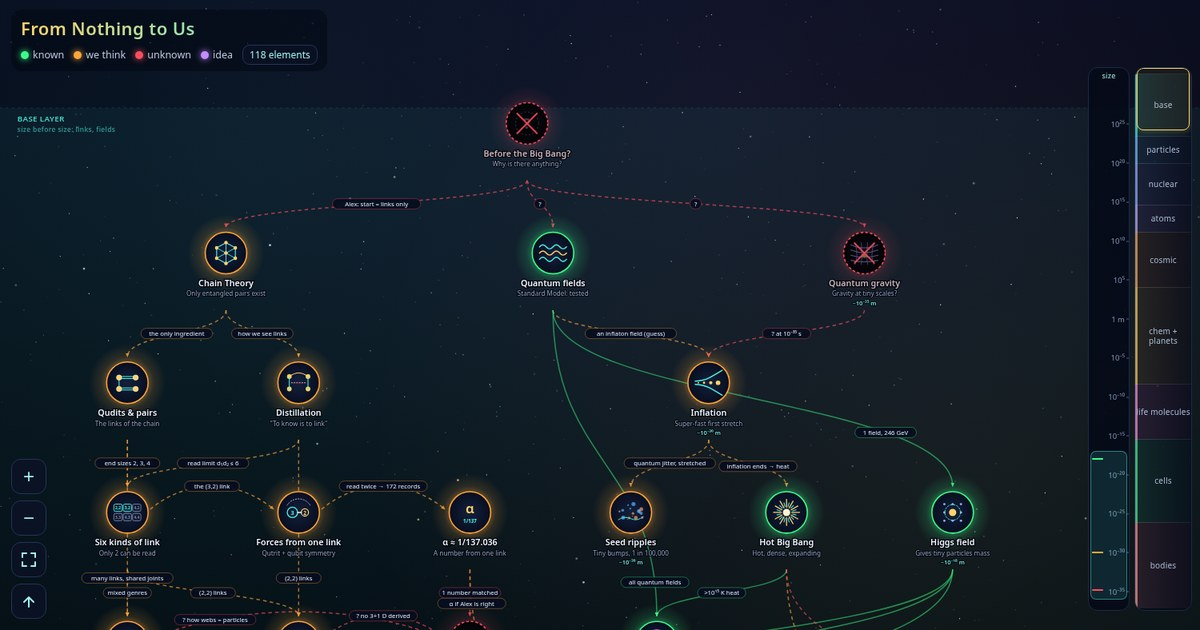
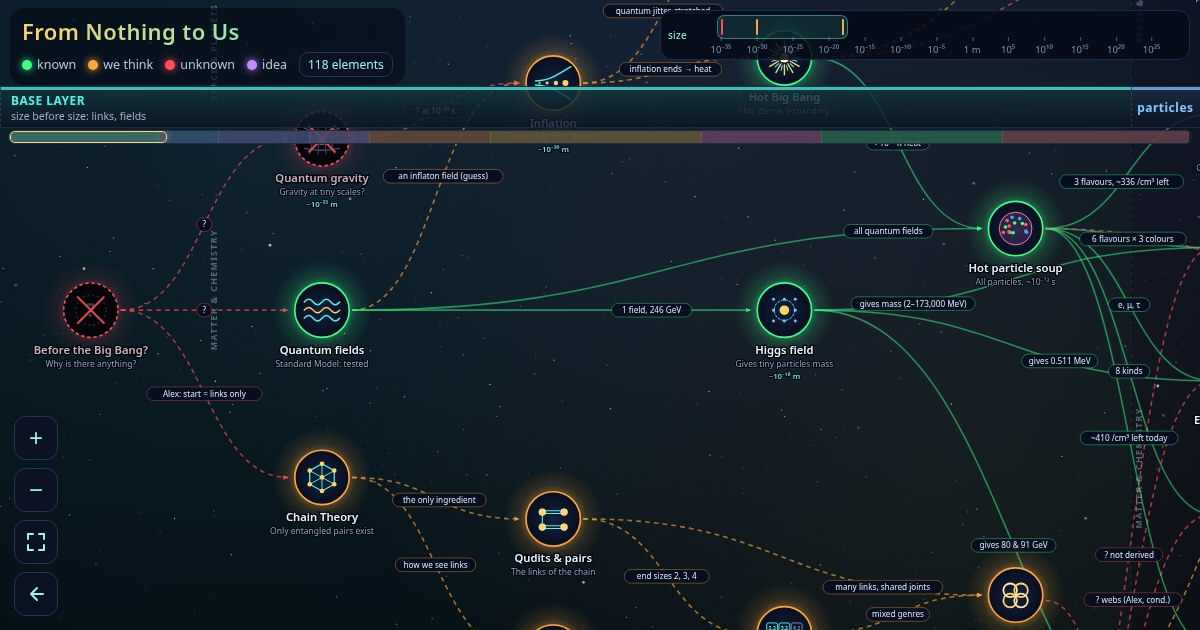
Publish v3 left-to-right layout.
Wheel zoom and drag-to-move replace the previous tree view, with an updated link preview.

diff --git a/index.html b/index.html
@@ -20,7 +20,7 @@ html,body{margin:0;height:100%;overflow:hidden;background:#04060f;color:#e8f4ff;
 #sky{position:fixed;inset:0;z-index:0}
 #tree{position:fixed;inset:0;z-index:1;width:100%;height:100%;cursor:grab;display:block}
 #tree.drag{cursor:grabbing}
-header{position:fixed;top:12px;left:14px;z-index:3;padding:8px 12px;border-radius:14px;background:rgba(4,8,20,.6);pointer-events:none}
+header{position:fixed;top:8px;left:10px;z-index:3;padding:8px 12px;border-radius:14px;background:rgba(4,8,20,.6);pointer-events:none}
 header *{pointer-events:auto}
 h1{margin:0;font-size:22px;font-weight:650;letter-spacing:.4px;background:linear-gradient(90deg,#ffd36b,#4ff3e3);-webkit-background-clip:text;background-clip:text;color:transparent}
 .legend{margin-top:6px;display:flex;gap:12px;flex-wrap:wrap;font-size:12.5px;color:#b9c8dc;align-items:center}
@@ -31,15 +31,20 @@ h1{margin:0;font-size:22px;font-weight:650;letter-spacing:.4px;background:linear
 .zoom{position:fixed;left:14px;bottom:14px;z-index:3;display:flex;flex-direction:column;gap:8px}
 .zoom button{width:44px;height:44px;border-radius:12px;border:1px solid #23355a;background:rgba(10,18,36,.85);color:#9ff5ea;font-size:24px;line-height:1;cursor:pointer;display:flex;align-items:center;justify-content:center;padding:0}
 .zoom button:hover{border-color:#4ff3e3}
-#strip{position:fixed;right:10px;top:84px;bottom:24px;width:70px;z-index:3;cursor:pointer;border-radius:12px;overflow:hidden;background:rgba(6,10,24,.88);border:1px solid #1b2a48}
-.seg{position:absolute;left:0;right:0;display:flex;align-items:center;justify-content:center;text-align:center;font-size:10px;line-height:1.15;letter-spacing:.2px;color:#a9b9d2;border-top:1px solid rgba(255,255,255,.05)}
-#vp{position:absolute;left:2px;right:2px;border:1.5px solid #ffd36b;border-radius:8px;background:rgba(255,211,107,.08);box-shadow:0 0 10px rgba(255,211,107,.35);pointer-events:none}
-#ruler{position:fixed;right:88px;top:84px;bottom:24px;width:50px;z-index:3;border-radius:12px;background:rgba(6,10,24,.88);border:1px solid #1b2a48;pointer-events:none;overflow:hidden}
-#ruler .rt{position:absolute;left:0;right:0;font-size:9.5px;color:#7f93b3;text-align:right;padding-right:5px;transform:translateY(-50%);white-space:nowrap}
-#ruler .rt:after{content:'';position:absolute;right:0;top:50%;width:3px;border-top:1px solid #4a5f85}
-#ruler .rk{position:absolute;left:4px;width:14px;height:2px;border-radius:1px;transform:translateY(-50%);transition:top .25s}
-#ruler .rh{position:absolute;left:2px;right:2px;border-radius:7px;background:rgba(79,243,227,.12);border:1px solid rgba(79,243,227,.45);transition:top .25s,height .25s}
-#ruler .rtitle{position:absolute;top:3px;left:0;right:0;text-align:center;font-size:9px;color:#9ff5ea;letter-spacing:.3px}
+#strip{position:fixed;left:0;right:0;top:86px;height:40px;z-index:3;pointer-events:none;background:rgba(6,10,24,.82);border-top:1px solid #1b2a48;border-bottom:1px solid #1b2a48}
+.seg{position:absolute;top:0;bottom:0;display:flex;flex-direction:column;justify-content:center;padding:0 10px;box-sizing:border-box;overflow:hidden;white-space:nowrap;cursor:pointer;pointer-events:auto;border-left:1px dashed rgba(255,255,255,.12)}
+.seg b{font-size:12px;letter-spacing:.5px;font-weight:700;overflow:hidden;text-overflow:ellipsis}
+.seg span{font-size:10.5px;color:#9fb0c8;overflow:hidden;text-overflow:ellipsis}
+.seg.narrow{padding:0 5px}.seg.narrow span{display:none}
+#mini{position:fixed;left:8px;right:8px;top:130px;height:12px;z-index:3;cursor:pointer;border-radius:6px;overflow:hidden;background:rgba(6,10,24,.88);border:1px solid #1b2a48}
+.mseg{position:absolute;top:0;bottom:0;font-size:0;border-right:1px solid rgba(0,0,0,.4)}
+#vp{position:absolute;top:0;bottom:0;border:1.5px solid #ffd36b;border-radius:5px;background:rgba(255,211,107,.12);box-shadow:0 0 8px rgba(255,211,107,.4);pointer-events:none;box-sizing:border-box}
+#ruler{position:fixed;right:10px;top:10px;height:48px;width:min(560px,44vw);z-index:3;border-radius:12px;background:rgba(6,10,24,.88);border:1px solid #1b2a48;pointer-events:none;overflow:hidden}
+#ruler .rt{position:absolute;bottom:3px;font-size:9.5px;color:#7f93b3;transform:translateX(-50%);white-space:nowrap}
+#ruler .rt:after{content:'';position:absolute;left:50%;top:-6px;height:4px;border-left:1px solid #4a5f85}
+#ruler .rk{position:absolute;top:8px;height:16px;width:2px;border-radius:1px;transform:translateX(-50%);transition:left .25s}
+#ruler .rh{position:absolute;top:4px;height:24px;border-radius:7px;background:rgba(79,243,227,.12);border:1px solid rgba(79,243,227,.45);transition:left .25s,width .25s;box-sizing:border-box}
+#ruler .rtitle{position:absolute;top:0;bottom:0;left:7px;display:flex;align-items:center;font-size:10px;color:#9ff5ea;letter-spacing:.3px}
 #pop{position:fixed;z-index:5;width:300px;max-height:72vh;overflow-y:auto;overscroll-behavior:contain;touch-action:pan-y;padding:12px 30px 12px 14px;border-radius:14px;background:rgba(8,14,30,.96);border:1.5px solid #4ff3e3;display:none;font-size:14px;line-height:1.45;color:#d6e4f5;-webkit-user-select:text;user-select:text;box-sizing:border-box}
 #pop b.t1{display:block;font-size:15.5px;color:#fff;margin-bottom:2px}
 #pop .chip{font-size:11.5px;color:#9fb0c8;margin-bottom:4px}
@@ -67,6 +72,7 @@ svg.focus .elab.lit rect{stroke-opacity:1}
 svg.far .elab,svg.far .sz{display:none}
 svg.moving .ic{filter:none}
 .band text{font-size:15px;font-weight:650;letter-spacing:.6px}
+.band text.lane{font-size:13px;font-weight:700;letter-spacing:2px;fill:#8fa3bf;opacity:.55}
 #pt{position:fixed;inset:0;z-index:8;background:rgba(2,4,12,.94);display:none;overflow:auto;touch-action:pan-x pan-y;-webkit-user-select:text;user-select:text}
 #pt .in{max-width:1180px;margin:0 auto;padding:16px 14px 40px}
 #pt h2{margin:0 0 4px;font-size:20px;background:linear-gradient(90deg,#ffd36b,#4ff3e3);-webkit-background-clip:text;background-clip:text;color:transparent;display:inline-block}
@@ -89,7 +95,7 @@ svg.moving .ic{filter:none}
 #ptmode{margin-left:8px}
 #pt .note{font-size:11.5px;color:#8a9bb6;margin-top:12px;line-height:1.5}
 #pt .note a{color:#4ff3e3}
-@media (max-width:600px){header{padding:6px 9px;top:8px;left:8px}h1{font-size:16px}.legend{font-size:11px;gap:7px}#strip{width:22px;right:6px}.seg{font-size:0}#ruler{right:32px;width:40px}#ruler .rt{font-size:8px}
+@media (max-width:600px){header{padding:6px 9px;top:8px;left:8px}h1{font-size:16px}.legend{font-size:11px;gap:7px}#ruler{left:8px;right:8px;width:auto;top:80px;height:36px}#ruler .rt{font-size:8px}#ruler .rk{top:5px;height:12px}#ruler .rh{top:2px;height:18px}#ruler .rtitle{display:none}#strip{top:120px;height:32px}.seg b{font-size:10.5px}.seg span{display:none}#mini{top:154px;height:10px}
  #pop{left:6px!important;right:6px;width:auto!important;top:auto!important;bottom:6px;max-height:58vh}}
 </style>
 </head>
@@ -104,10 +110,11 @@ svg.moving .ic{filter:none}
   <button id="zin" title="Zoom in">+</button>
   <button id="zout" title="Zoom out">−</button>
   <button id="zfit" title="See everything"><svg width="22" height="22" viewBox="0 0 22 22" fill="none" stroke="#9ff5ea" stroke-width="2" stroke-linecap="round"><path d="M3 8V3h5M14 3h5v5M19 14v5h-5M8 19H3v-5"/></svg></button>
-  <button id="ztop" title="Back to the top"><svg width="22" height="22" viewBox="0 0 22 22" fill="none" stroke="#9ff5ea" stroke-width="2" stroke-linecap="round" stroke-linejoin="round"><path d="M5 12l6-6 6 6M11 6v12"/></svg></button>
+  <button id="ztop" title="Back to the start"><svg width="22" height="22" viewBox="0 0 22 22" fill="none" stroke="#9ff5ea" stroke-width="2" stroke-linecap="round" stroke-linejoin="round"><path d="M12 5l-6 6 6 6M6 11h12"/></svg></button>
 </div>
 <div id="ruler"><div class="rtitle">size</div></div>
-<div id="strip"><div id="vp"></div></div>
+<div id="strip"></div>
+<div id="mini"><div id="vp"></div></div>
 <div id="pop"><button class="x" aria-label="close">×</button><div id="popBody"></div></div>
 <div id="pt"><button class="close" aria-label="close">×</button><div class="in">
   <h2>All 118 elements: where they come from</h2>
@@ -733,10 +740,34 @@ const ELS=[[1,"H","Hydrogen","nm","B",1,1],[2,"He","Helium","nob","B",1,18],[3,"
 for (const n of N) { const x = EXTRA[n.id]; if (x) { if (x.L2 && x.L2.length) n.L2 = x.L2; if (x.L3 && x.L3.length) n.L3 = x.L3; } n.L2 = n.L2 || []; n.L3 = n.L3 || []; }
 
 /* ============ LAYOUT ============ */
-const ROW = 250, TOP = 130, W = 2050, LASTR = Math.max(...N.map(n => n.r)), H = TOP + LASTR * ROW + 190;
-const Y = r => TOP + r * ROW;
-const byId = {}; N.forEach(n => { n.y = Y(n.r); n.kids = []; byId[n.id] = n; });
+/* Left → right: one column per stage (n.r), grouped into size levels (BANDS).
+   Rows = branches: space & planets on top, matter & chemistry in the middle, Chain Theory and life below. */
+const COL = 340, LEFT = 150, GAP = 196, LANEGAP = 50, LASTR = Math.max(...N.map(n => n.r));
+const X = r => LEFT + r * COL;
+const LANES = { cosmic: ['SPACE & PLANETS', -720, 0], matter: ['MATTER & CHEMISTRY', 0, 1], chain: ['CHAIN THEORY (base idea)', 700, 2], life: ['LIFE', 640, 2] };
+const LANE_OF = {};
+'qgrav inflation seeds bigbang dm de gravity halos cmb gas firststars stars galaxies smbh supernova sn1a nsmerger bh cosmicray dust planets solar earth exo moon'.split(' ').forEach(i => LANE_OF[i] = 'cosmic');
+'axiom qudits distill genres gauge alpha chainmail ctspace gap'.split(' ').forEach(i => LANE_OF[i] = 'chain');
+'amino nucleotides sugars lipids peptides rnaworld vesicles protocell origin luca proteins code dna prok photosyn goe eukaryote multicell tissues plants animals organs mammals organsys hsap body brain idea mind'.split(' ').forEach(i => LANE_OF[i] = 'life');
+const byId = {}; N.forEach(n => { n.x = X(n.r); n.kids = []; n.lane = LANE_OF[n.id] || 'matter'; byId[n.id] = n; });
 N.forEach(n => n.p.forEach(p => byId[p].kids.push(n.id)));
+(() => { // place each column: pull towards parents (straight lines) and towards the branch's row, keep branches in order, never overlap
+  for (let r = 0; r <= LASTR; r++) {
+    const col = N.filter(n => n.r === r), done = new Set(), order = [];
+    while (order.length < col.length) for (const n of col) if (!done.has(n.id) && n.p.every(p => byId[p].r < r || done.has(p))) { done.add(n.id); order.push(n); }
+    for (const n of order) { const ps = n.p.map(p => byId[p]).filter(p => p.y != null), L = LANES[n.lane];
+      const bary = ps.length ? ps.reduce((m, p) => m + p.y, 0) / ps.length : L[1]; n.want = 0.65 * bary + 0.35 * L[1];
+      if (ps.some(p => p.r === r)) n.want += GAP * 0.6; n.y = n.want; }
+    col.sort((a, b) => LANES[a.lane][2] - LANES[b.lane][2] || a.want - b.want);
+    const sep = (a, b) => GAP + (a.lane !== b.lane ? LANEGAP : 0);
+    for (let it = 0; it < 200; it++) { let ok = true;
+      for (let i = 1; i < col.length; i++) { const a = col[i - 1], b = col[i], d = a.y + sep(a, b) - b.y; if (d > 0.01) { ok = false; a.y -= d / 2; b.y += d / 2; } }
+      if (ok) break; }
+    for (let i = 1; i < col.length; i++) col[i].y = Math.max(col[i].y, col[i - 1].y + sep(col[i - 1], col[i]));
+  }
+  const mn = Math.min(...N.map(n => n.y)); N.forEach(n => n.y = Math.round(n.y - mn + 190));
+})();
+const W = X(LASTR) + 260, H = Math.max(...N.map(n => n.y)) + 190;
 /* labels for the remaining lines: amount / recipe / what passes up (kept short; '?' = not known) */
 const EL2 = {
  axiom:{nothing:'Alex: start = links only'}, qft:{nothing:'?'}, qgrav:{nothing:'?'},
@@ -767,7 +798,7 @@ const EL2 = {
 };
 for (const id in EL2) { const n = byId[id]; if (!n) continue; n.el = n.el || {}; for (const p in EL2[id]) if (n.p.includes(p) && !n.el[p]) n.el[p] = EL2[id][p]; }
 
-/* sections: [label, short label, first row, last row, colour, size range] */
+/* size levels = column groups: [label, short label, first stage, last stage, colour, size range] */
 const BANDS = [
  ['BASE LAYER', 'base', 0, 4.5, '#4ff3e3', 'before size: links, fields'],
  ['PARTICLES & FORCES', 'particles', 4.5, 6.5, '#7fc8ff', 'point-like, < 10⁻¹⁸ m'],
@@ -905,33 +936,38 @@ defs.innerHTML = Object.entries(SC).map(([k, c]) =>
 
 const bez = (P, t) => { const u = 1 - t; return [u * u * u * P[0] + 3 * u * u * t * P[2] + 3 * u * t * t * P[4] + t * t * t * P[6], u * u * u * P[1] + 3 * u * u * t * P[3] + 3 * u * t * t * P[5] + t * t * t * P[7]]; };
 const boxes = []; // obstacles for edge labels
-N.forEach(n => boxes.push([n.x - 82, n.y - 50, n.x + 82, n.y + 108]));
+const halfW = n => Math.max(62, n.name.length * 4.7 + 6, n.line.length * 3.5 + 6);
+N.forEach(n => boxes.push([n.x - halfW(n), n.y - 50, n.x + halfW(n), n.y + 108]));
 const hit = (b) => boxes.some(o => b[0] < o[2] && b[2] > o[0] && b[1] < o[3] && b[3] > o[1]);
 const EDGES = [];
 for (const n of N) for (const pid of n.p) {
   const p = byId[pid], s = (n.es && n.es[pid]) || (RANK[n.s] >= RANK[p.s] ? n.s : p.s);
-  let P; if (n.r === p.r) { const d = n.x > p.x ? 1 : -1, x1 = p.x + 44 * d, x2 = n.x - 48 * d, y = p.y - 6, bow = Math.min(70, Math.abs(x2 - x1) * .25);
-    P = [x1, y, x1 + (x2 - x1) * .3, y - bow, x2 - (x2 - x1) * .3, y - bow, x2, y]; }
-  else { const x1 = p.x, y1 = p.y + 110, x2 = n.x, y2 = n.y - 50, dy = Math.max(30, (y2 - y1) * 0.5); P = [x1, y1, x1, y1 + dy, x2, y2 - dy, x2, y2]; }
+  let P; if (n.r === p.r) { const x = p.x + 44, bow = 95; P = [x, p.y + 8, x + bow, p.y + 8, x + bow, n.y - 8, n.x + 46, n.y - 8]; } // same stage: small arc on the right
+  else { const x1 = p.x + 44, y1 = p.y, x2 = n.x - 50, y2 = n.y, dx = Math.max(40, (x2 - x1) * 0.5); P = [x1, y1, x1 + dx, y1, x2 - dx, y2, x2, y2]; }
   EDGES.push({ a: pid, b: n.id, s, P, lab: n.el && n.el[pid], dr: n.r - p.r });
 }
-// long lines (4+ rows) are drawn as a short "from …" chip above the child, so they do not cross the whole map
+// long lines (4+ stages) are drawn as a short "← from …" chip left of the child, so they do not cross the whole map
 const LONG = 4;
-EDGES.forEach(e => { e.long = e.dr >= LONG; if (e.long) e.lab = '↑ from ' + byId[e.a].name + (e.lab ? ': ' + e.lab : ''); });
+EDGES.forEach(e => { e.long = e.dr >= LONG; if (e.long) e.lab = '← from ' + byId[e.a].name + (e.lab ? ': ' + e.lab : ''); });
 const overlap = b => boxes.reduce((m, o) => m + Math.max(0, Math.min(b[2], o[2]) - Math.max(b[0], o[0])) * Math.max(0, Math.min(b[3], o[3]) - Math.max(b[1], o[1])), 0);
 for (const e of EDGES) { if (!e.lab) continue;
   const w = Math.min(260, e.lab.length * 6.4 + 16), h = 19; let cands = [];
-  if (e.long) { const x2 = e.P[6], y2 = e.P[7]; for (const dy of [-34, -60, -86]) for (const dx of [0, -150, 150, -260, 260]) cands.push([x2 + dx, y2 + dy]); }
-  else { let t0 = .5; if (e.dr > 1) { let lo = 0, hi = 1; const ty = e.P[7] - ROW * .42; for (let i = 0; i < 30; i++) { const m = (lo + hi) / 2; if (bez(e.P, m)[1] < ty) lo = m; else hi = m; } t0 = lo; }
+  if (e.long) { const x2 = e.P[6], y2 = e.P[7]; for (const dx of [20, 70, 130]) for (const dy of [0, -26, 26, -52, 52, -80, 80, -110, 110]) cands.push([x2 - 20 - w / 2 - dx, y2 + dy]); }
+  else { let t0 = .5; if (e.dr > 1) { let lo = 0, hi = 1; const tx0 = e.P[6] - COL * .45; for (let i = 0; i < 30; i++) { const m = (lo + hi) / 2; if (bez(e.P, m)[0] < tx0) lo = m; else hi = m; } t0 = lo; }
     const ts = []; for (let t = .08; t < .93; t += .03) ts.push(t); ts.sort((a, b) => Math.abs(a - t0) - Math.abs(b - t0)); cands = ts.map(t => bez(e.P, t)); }
   let best = null, bo = 1e18; for (const [x, y] of cands) { const b = [x - w / 2 - 3, y - h / 2 - 3, x + w / 2 + 3, y + h / 2 + 3], o = overlap(b); if (o < bo) { bo = o; best = [x, y, b]; if (!o) break; } }
   boxes.push(best[2]); e.lx = best[0]; e.ly = best[1]; e.lw = w;
-  if (e.long) { const x2 = e.P[6], y2 = e.P[7]; e.P = [e.lx, e.ly + 10, e.lx, e.ly + 30, x2, y2 - 20, x2, y2]; } }
+  if (e.long) { const x1 = e.lx + w / 2, x2 = e.P[6], y2 = e.P[7], dx = Math.max(12, (x2 - x1) * .5); e.P = [x1, e.ly, x1 + dx, e.ly, x2 - dx, y2, x2, y2]; } }
 
 let bands = '', edges = '', labs = '', nodes = '';
-BANDS.forEach(([name, , a, b, c, sz], i) => { const y0 = Math.max(0, Y(a) - 30), y1 = Math.min(H, Y(b) - 30);
-  bands += `<g class="band"><rect x="-400" y="${y0}" width="${W + 800}" height="${y1 - y0}" fill="${c}" opacity="${i % 2 ? .035 : .055}"/><line x1="-400" x2="${W + 400}" y1="${y0}" y2="${y0}" stroke="${c}" stroke-opacity=".25" stroke-dasharray="4 8"/>` +
-  `<text x="18" y="${y0 + 26}" fill="${c}" opacity=".85">${esc(name)}</text><text x="18" y="${y0 + 46}" fill="${c}" opacity=".6" style="font-size:13px;font-weight:500">size ${esc(sz)}</text></g>`; });
+const bx = v => v <= 0 ? 0 : Math.max(0, Math.min(W, X(v)));
+BANDS.forEach(([name, , a, b, c, sz], i) => { const x0 = bx(a), x1 = bx(b);
+  bands += `<g class="band"><rect x="${x0}" y="-600" width="${x1 - x0}" height="${H + 1200}" fill="${c}" opacity="${i % 2 ? .035 : .055}"/><line y1="-600" y2="${H + 600}" x1="${x0}" x2="${x0}" stroke="${c}" stroke-opacity=".25" stroke-dasharray="4 8"/>` +
+  `<text x="${x0 + 16}" y="40" fill="${c}" opacity=".85">${esc(name)}</text><text x="${x0 + 16}" y="60" fill="${c}" opacity=".6" style="font-size:13px;font-weight:500">size ${esc(sz)}</text>`;
+  for (const ln in LANES) { const ns = N.filter(n => n.lane === ln && n.r > a && n.r < b); if (!ns.length) continue;
+    const y0 = Math.min(...ns.map(n => n.y)) - 50, y1 = Math.max(...ns.map(n => n.y)) + 110, ym = (y0 + y1) / 2, lx = Math.min(...ns.map(n => n.x)) - COL / 2 + 16;
+    bands += `<text class="lane" transform="translate(${lx} ${ym}) rotate(-90)" text-anchor="middle">${esc(LANES[ln][0])}</text>`; }
+  bands += '</g>'; });
 EDGES.forEach((e, i) => { const P = e.P, c = SC[e.s];
   edges += `<path class="edge" id="e${i}" data-a="${e.a}" data-b="${e.b}" d="M${P[0]} ${P[1]} C${P[2]} ${P[3]} ${P[4]} ${P[5]} ${P[6]} ${P[7]}" fill="none" stroke="${c}" stroke-opacity="${e.s === 'k' ? .5 : .65}" stroke-width="${e.long ? 1.6 : 2.3}" ${e.s === 'k' && !e.long ? '' : 'stroke-dasharray="' + (e.long ? '2 4' : '7 6') + '"'} marker-end="url(#arr-${e.s})"/>`;
   if (e.lab) labs += `<g class="elab" data-a="${e.a}" data-b="${e.b}" transform="translate(${e.lx.toFixed(1)} ${e.ly.toFixed(1)})"><rect x="${-e.lw / 2}" y="-10" width="${e.lw}" height="20" rx="10" fill="#070d1f" fill-opacity=".92" stroke="${c}" stroke-opacity=".55"/><text y="4.3" text-anchor="middle" font-size="12" fill="#dce8f8">${esc(e.lab)}</text></g>`; });
@@ -949,7 +985,7 @@ world.innerHTML = `<g>${bands}</g><g>${edges}</g><g>${labs}</g><g>${nodes}</g>`;
 const nodeEls = [...svg.querySelectorAll('.node')], edgeEls = [...svg.querySelectorAll('.edge')], labEls = [...svg.querySelectorAll('.elab')];
 // bounding boxes for culling
 const nodeBB = N.map(n => [n.x - 90, n.y - 80, n.x + 90, n.y + 115]);
-const edgeBB = EDGES.map(e => { const P = e.P; return [Math.min(P[0], P[6]) - 10, Math.min(P[1], P[7]) - 10, Math.max(P[0], P[6]) + 10, Math.max(P[1], P[7]) + 10]; });
+const edgeBB = EDGES.map(e => { const P = e.P, xs = [P[0], P[2], P[4], P[6]], ys = [P[1], P[3], P[5], P[7]]; return [Math.min(...xs) - 10, Math.min(...ys) - 10, Math.max(...xs) + 10, Math.max(...ys) + 10]; });
 const labBB = EDGES.filter(e => e.lab).map(e => [e.lx - e.lw / 2, e.ly - 12, e.lx + e.lw / 2, e.ly + 12]);
 
 /* ============ STARRY SKY ============ */
@@ -961,27 +997,35 @@ function drawSky() { const d = Math.min(2, devicePixelRatio || 1), w = innerWidt
   const r = lcg(42), n = Math.round(w * h / 1800); for (let i = 0; i < n; i++) { const a = r() * r() * .9 + .08; sctx.fillStyle = `rgba(${r() < .15 ? '255,230,180' : r() < .3 ? '180,240,255' : '235,240,255'},${a})`;
     sctx.beginPath(); sctx.arc(r() * w, r() * h, r() < .04 ? 1.4 : .7, 0, 6.283); sctx.fill(); } }
 
-/* ============ SECTION STRIP (scroll bar) ============ */
-const strip = document.getElementById('strip'), vp = document.getElementById('vp');
-BANDS.forEach(([, short, a, b, c]) => { const d = document.createElement('div'); d.className = 'seg'; const y0 = Math.max(0, Y(a) - 30) / H, y1 = Math.min(H, Y(b) - 30) / H;
-  d.style.top = (y0 * 100) + '%'; d.style.height = ((y1 - y0) * 100) + '%'; d.style.background = `linear-gradient(90deg, ${c}22, ${c}08)`; d.style.boxShadow = `inset 3px 0 0 ${c}aa`; d.textContent = short; strip.insertBefore(d, vp); });
+/* ============ COLUMN HEADERS (follow the map) + OVERVIEW BAR (scroll bar) ============ */
+const strip = document.getElementById('strip'), mini = document.getElementById('mini'), vp = document.getElementById('vp');
+const heads = BANDS.map(([name, short, a, b, c, sz]) => { const d = document.createElement('div'); d.className = 'seg';
+  d.style.background = `linear-gradient(180deg, ${c}2a, ${c}0a)`; d.style.boxShadow = `inset 0 3px 0 ${c}bb`; d.innerHTML = `<b style="color:${c}">${esc(name)}</b><span>size ${esc(sz)}</span>`; d.title = name;
+  d.onclick = () => { const x0 = bx(a), x1 = bx(b), s2 = Math.min(1.1, Math.max(minS(), (innerWidth - 40) / (x1 - x0 + 120))), cy = (innerHeight / 2 - ty) / s; animTo(s2, innerWidth / 2 - (x0 + x1) / 2 * s2, innerHeight / 2 - cy * s2); };
+  strip.appendChild(d); const m = document.createElement('div'); m.className = 'mseg'; m.style.left = (bx(a) / W * 100) + '%'; m.style.width = ((bx(b) - bx(a)) / W * 100) + '%'; m.style.background = c + '55'; m.textContent = short; mini.insertBefore(m, vp);
+  return [d, bx(a), bx(b), short, name]; });
+function updHeads() { const vw = innerWidth;
+  for (const [d, a, b, short, name] of heads) { const l = a * s + tx, r = b * s + tx, L = Math.max(l, 0), R = Math.min(r, vw);
+    if (R - L < 24) { d.style.display = 'none'; continue; } d.style.display = ''; d.style.left = L + 'px'; d.style.width = (R - L) + 'px'; d.classList.toggle('narrow', R - L < 150);
+    d.firstChild.textContent = R - L < 150 ? short : name; } }
 
 /* ============ SIZE RULER (log scale, ticks = things in view) ============ */
 const ruler = document.getElementById('ruler'), RMIN = -36, RMAX = 28;
-const rY = e => 6 + (1 - (e - RMIN) / (RMAX - RMIN)) * 92; // % from top (big at top)
-for (let e = -35; e <= 25; e += 5) { const d = document.createElement('div'); d.className = 'rt'; d.style.top = rY(e) + '%'; d.textContent = e === 0 ? '1 m' : pow10(e); ruler.appendChild(d); }
+const rY = e => 10 + (e - RMIN) / (RMAX - RMIN) * 87; // % from left (small on the left, big on the right)
+for (let e = -35; e <= 25; e += 5) { const d = document.createElement('div'); d.className = 'rt'; d.style.left = rY(e) + '%'; d.textContent = e === 0 ? '1 m' : pow10(e); ruler.appendChild(d); }
 const rh = document.createElement('div'); rh.className = 'rh'; ruler.appendChild(rh);
-const rticks = N.filter(n => n.sz != null).map(n => { const d = document.createElement('div'); d.className = 'rk'; d.style.background = SC[n.s]; d.style.top = rY(n.sz) + '%'; d.style.display = 'none'; d.title = n.name; ruler.appendChild(d); return [n, d]; });
+const rticks = N.filter(n => n.sz != null).map(n => { const d = document.createElement('div'); d.className = 'rk'; d.style.background = SC[n.s]; d.style.left = rY(n.sz) + '%'; d.style.display = 'none'; d.title = n.name; ruler.appendChild(d); return [n, d]; });
 function updRuler(x0, y0, x1, y1) { let lo = 99, hi = -99;
   for (const [n, d] of rticks) { const inV = n.x > x0 && n.x < x1 && n.y > y0 && n.y < y1; d.style.display = inV ? '' : 'none'; if (inV) { lo = Math.min(lo, n.sz); hi = Math.max(hi, n.sz); } }
-  if (lo > hi) rh.style.display = 'none'; else { rh.style.display = ''; rh.style.top = (rY(hi) - 1.5) + '%'; rh.style.height = (rY(lo) - rY(hi) + 3) + '%'; } }
+  if (lo > hi) rh.style.display = 'none'; else { rh.style.display = ''; rh.style.left = (rY(lo) - 1) + '%'; rh.style.width = (rY(hi) - rY(lo) + 2) + '%'; } }
 
 /* ============ PAN / ZOOM ============ */
 let s = 1, tx = 0, ty = 0, anim = null, sel = null, cullQ = false, movT = 0;
-const MAXS = 3.5, minS = () => Math.min(innerWidth / (W + 60), innerHeight / (H + 60)) * 0.92;
-function clamp() { const vw = innerWidth, vh = innerHeight, ww = W * s, hh = H * s;
-  tx = ww < vw ? Math.min(Math.max(tx, 0), vw - ww) : Math.min(Math.max(tx, vw - ww - 150), 40);
-  ty = hh < vh ? Math.min(Math.max(ty, 0), vh - hh) : Math.min(Math.max(ty, vh - hh - 60), 70); }
+const MAXS = 3, UI = () => innerWidth <= 600 ? 168 : 146; // height of the fixed bars at the top
+const minS = () => Math.min(innerWidth / (W + 60), (innerHeight - UI()) / (H + 40)) * 0.96;
+function clamp() { const vw = innerWidth, vh = innerHeight, ww = W * s, hh = H * s, top = UI();
+  tx = ww < vw ? Math.min(Math.max(tx, 0), vw - ww) : Math.min(Math.max(tx, vw - ww - 120), 120);
+  ty = hh < vh - top ? Math.min(Math.max(ty, top - 40), vh - hh) : Math.min(Math.max(ty, vh - hh - 80), top + 40); }
 function cull() { cullQ = false; const m = 60, x0 = (-tx) / s - m, y0 = (-ty) / s - m, x1 = (innerWidth - tx) / s + m, y1 = (innerHeight - ty) / s + m;
   const vis = b => b[2] > x0 && b[0] < x1 && b[3] > y0 && b[1] < y1;
   nodeEls.forEach((el, i) => { const v = vis(nodeBB[i]); if (el._v !== v) { el._v = v; el.style.display = v ? '' : 'none'; } });
@@ -991,15 +1035,18 @@ function cull() { cullQ = false; const m = 60, x0 = (-tx) / s - m, y0 = (-ty) / 
   updRuler((-tx) / s, (-ty) / s, (innerWidth - tx) / s, (innerHeight - ty) / s); }
 function moving() { svg.classList.add('moving'); clearTimeout(movT); movT = setTimeout(() => svg.classList.remove('moving'), 220); }
 function apply() { clamp(); world.setAttribute('transform', `translate(${tx.toFixed(2)} ${ty.toFixed(2)}) scale(${s.toFixed(4)})`);
-  const a = Math.max(0, -ty / s), b = Math.min(H, (innerHeight - ty) / s); vp.style.top = (a / H * 100) + '%'; vp.style.height = (Math.max(.01, b - a) / H * 100) + '%';
+  const a = Math.max(0, -tx / s), b = Math.min(W, (innerWidth - tx) / s); vp.style.left = (a / W * 100) + '%'; vp.style.width = (Math.max(.004, b - a) / W * 100) + '%'; updHeads();
   if (!cullQ) { cullQ = true; requestAnimationFrame(cull); } moving();
   if (sel) placePop(); }
 function zoomAt(f, cx, cy) { const ns = Math.min(MAXS, Math.max(minS(), s * f)); tx = cx - (cx - tx) * ns / s; ty = cy - (cy - ty) * ns / s; s = ns; apply(); }
 function animTo(s2, tx2, ty2, ms = 550) { cancelAnimationFrame(anim); const s0 = s, x0 = tx, y0 = ty, t0 = performance.now();
   const stepA = now => { const k = Math.min(1, (now - t0) / ms), e = 1 - Math.pow(1 - k, 3); s = s0 + (s2 - s0) * e; tx = x0 + (tx2 - x0) * e; ty = y0 + (ty2 - y0) * e; apply(); if (k < 1) anim = requestAnimationFrame(stepA); };
   anim = requestAnimationFrame(stepA); }
-function homeView() { const vw = innerWidth, s2 = Math.min(1, Math.max(.5, (vw - 170) / W)); return [s2, (vw - 150) / 2 - W / 2 * s2, 90]; }
-function fitView() { const s2 = minS(); return [s2, (innerWidth - W * s2) / 2, (innerHeight - H * s2) / 2]; }
+// start view: the left (base) end of the map at a readable zoom
+function homeView() { const vw = innerWidth, vh = innerHeight, top = UI(), ns = N.filter(n => n.r <= 2), y0 = Math.min(...ns.map(n => n.y)) - 60, y1 = Math.max(...ns.map(n => n.y)) + 120;
+  const s2 = vw <= 600 ? 0.55 : Math.min(0.85, Math.max(0.68, (vh - top - 20) / (y1 - y0))), cy = vw <= 600 ? byId.nothing.y + 60 : (y0 + y1) / 2;
+  return [s2, 16 - (X(0) - 110) * s2, top + (vh - top) / 2 - cy * s2]; }
+function fitView() { const s2 = minS(), top = UI(); return [s2, (innerWidth - W * s2) / 2, top + (innerHeight - top - H * s2) / 2]; }
 
 const pts = new Map(); let down = null, moved = false, pinch0 = null;
 const pinchState = () => { const [a, b] = [...pts.values()]; return { d: Math.hypot(a.x - b.x, a.y - b.y) || 1, cx: (a.x + b.x) / 2, cy: (a.y + b.y) / 2, s, tx, ty }; };
@@ -1014,11 +1061,12 @@ function endPtr(e) { if (!pts.has(e.pointerId)) return; pts.delete(e.pointerId);
   if (pts.size === 0) { if (down && !moved && e.type === 'pointerup') tap(down.target); down = null; pinch0 = null; }
   else if (pts.size === 1) { const [p] = [...pts.values()]; down = { x: p.x, y: p.y, tx, ty, target: null }; pinch0 = null; } }
 svg.addEventListener('pointerup', endPtr); svg.addEventListener('pointercancel', endPtr);
+// mouse wheel = zoom towards the cursor (trackpad pinch too); a sideways trackpad swipe or Shift+wheel pans sideways
 svg.addEventListener('wheel', e => { e.preventDefault(); cancelAnimationFrame(anim);
   const k = e.deltaMode === 1 ? 40 : e.deltaMode === 2 ? innerHeight : 1, dy = e.deltaY * k, dx = e.deltaX * k;
-  if (e.ctrlKey) { zoomAt(Math.exp(-Math.max(-120, Math.min(120, dy)) * 0.0028), e.clientX, e.clientY); return; }
-  if (e.shiftKey) { tx -= dy || dx; apply(); return; }
-  ty -= dy; tx -= dx; apply(); }, { passive: false });
+  if (e.shiftKey && !e.ctrlKey) { tx -= dy || dx; apply(); return; }
+  if (!e.ctrlKey && Math.abs(dx) > Math.abs(dy)) { tx -= dx; apply(); return; }
+  zoomAt(Math.exp(-Math.max(-150, Math.min(150, dy)) * (e.ctrlKey ? 0.006 : 0.002)), e.clientX, e.clientY); }, { passive: false });
 const zc = () => [innerWidth / 2, innerHeight / 2];
 document.getElementById('zin').onclick = () => { const [cx, cy] = zc(), ns = Math.min(MAXS, s * 1.4); animTo(ns, cx - (cx - tx) * ns / s, cy - (cy - ty) * ns / s, 300); };
 document.getElementById('zout').onclick = () => { const [cx, cy] = zc(), ns = Math.max(minS(), s / 1.4); animTo(ns, cx - (cx - tx) * ns / s, cy - (cy - ty) * ns / s, 300); };
@@ -1031,10 +1079,10 @@ addEventListener('keydown', e => { if (ptOpen()) { if (e.key === 'Escape') close
   else if (k === '+' || k === '=') zoomAt(1.25, ...zc()); else if (k === '-') zoomAt(0.8, ...zc());
   else if (k === 'Escape') closePop(); else if (k === 'Home') animTo(...homeView()); });
 let stripDrag = false;
-const stripJump = e => { const r = strip.getBoundingClientRect(), f = Math.min(1, Math.max(0, (e.clientY - r.top) / r.height)); cancelAnimationFrame(anim); ty = innerHeight / 2 - f * H * s; apply(); };
-strip.addEventListener('pointerdown', e => { stripDrag = true; strip.setPointerCapture(e.pointerId); stripJump(e); });
-strip.addEventListener('pointermove', e => { if (stripDrag) stripJump(e); });
-strip.addEventListener('pointerup', () => stripDrag = false); strip.addEventListener('pointercancel', () => stripDrag = false);
+const stripJump = e => { const r = mini.getBoundingClientRect(), f = Math.min(1, Math.max(0, (e.clientX - r.left) / r.width)); cancelAnimationFrame(anim); tx = innerWidth / 2 - f * W * s; apply(); };
+mini.addEventListener('pointerdown', e => { stripDrag = true; mini.setPointerCapture(e.pointerId); stripJump(e); });
+mini.addEventListener('pointermove', e => { if (stripDrag) stripJump(e); });
+mini.addEventListener('pointerup', () => stripDrag = false); mini.addEventListener('pointercancel', () => stripDrag = false);
 
 /* ============ HIGHLIGHT A NODE'S LINEAGE ============ */
 function related(id) { const A = new Set([id]), D = new Set([id]);
@@ -1075,9 +1123,9 @@ popBody.addEventListener('click', e => { const b = e.target.closest('button'); i
   else if (a === 'pt') openPT(); });
 pop.addEventListener('wheel', e => e.stopPropagation(), { passive: true });
 function placePop() { if (innerWidth <= 600) { pop.style.left = ''; pop.style.top = ''; return; }
-  const n = byId[sel], x = n.x * s + tx, y = n.y * s + ty, r = 46 * s, pw = pop.offsetWidth, ph = pop.offsetHeight, vw = innerWidth, vh = innerHeight, RM = 150;
+  const n = byId[sel], x = n.x * s + tx, y = n.y * s + ty, r = 46 * s, pw = pop.offsetWidth, ph = pop.offsetHeight, vw = innerWidth, vh = innerHeight, RM = 10, TM = UI();
   let px = x + r + 12; if (px + pw > vw - RM) px = x - r - 12 - pw; let below = false; if (px < 8) { px = Math.min(vw - pw - RM, Math.max(8, x - pw / 2)); below = true; }
-  let py = below ? y + r + 10 : y - ph / 2; py = Math.min(vh - ph - 8, Math.max(8, py));
+  let py = below ? y + r + 10 : y - ph / 2; py = Math.max(TM, Math.min(vh - ph - 8, py)); if (py + ph > vh - 8) py = Math.max(8, vh - ph - 8);
   pop.style.left = px + 'px'; pop.style.top = py + 'px'; }
 function closePop() { sel = null; pop.style.display = 'none'; light(null); }
 pop.querySelector('.x').onclick = closePop;
@@ -1112,9 +1160,9 @@ pt.addEventListener('wheel', e => e.stopPropagation(), { passive: true });
 function init() { drawSky(); [s, tx, ty] = homeView(); apply(); }
 addEventListener('resize', () => { drawSky(); apply(); });
 init();
-// test hooks (used for screenshots): #view=fit | #y=<row>&z=<zoom> | &open=<id>&layer=<1-3> | #ptable=1&el=<Z>
+// test hooks (used for screenshots): #view=fit | #c=<stage column>&y=<world y>&z=<zoom> | &open=<id>&layer=<1-3> | #ptable=1&el=<Z>
 (() => { const h = new URLSearchParams(location.hash.slice(1)); if (h.get('view') === 'fit') [s, tx, ty] = fitView();
-  if (h.has('y')) { s = +(h.get('z') || s); ty = innerHeight / 2 - Y(+h.get('y')) * s; tx = (innerWidth - 150) / 2 - (+(h.get('x') || W / 2)) * s; }
+  if (h.has('c')) { s = +(h.get('z') || s); tx = innerWidth / 2 - X(+h.get('c')) * s; ty = UI() + (innerHeight - UI()) / 2 - (+(h.get('y') || H / 2)) * s; }
   apply(); if (h.has('open')) openPop(h.get('open'), +(h.get('layer') || 1));
   if (h.has('ptable')) { openPT(); if (h.has('el')) ptShow(+h.get('el')); } })();
 </script>

diff --git a/README.md b/README.md
@@ -5,3 +5,4 @@ An interactive dark-mode tree of how everything emerges, from the quantum field 
 Live site: https://zyphullen.github.io/from-nothing-to-us/
 
 v2: fact-checked (151 facts), 89 steps, all 118 elements, labelled recipes, layered Read more pop-ups.
+v3: left-to-right layout, wheel zooms, drag to move.
